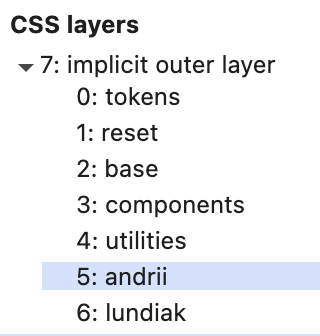
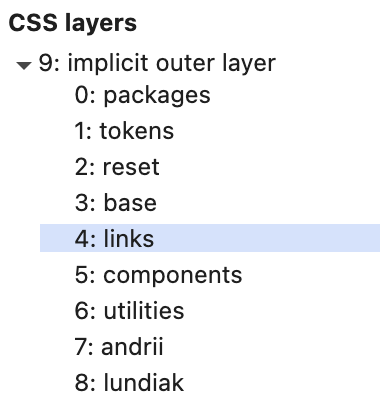
Fixed CSS layers

Changed region(s): [[0.0, 0.4762, 1.0, 1.0], [0.0, 0.0298, 0.875, 0.4464]]

diff --git a/src/index_w_layers.css b/src/index_w_layers.css
@@ -1,51 +1,10 @@
-@import 'bootstrap';
+/* LAYERS order, must be declared at the top of file */
+@layer packages, tokens, reset, base, links, components, utilities, andrii, lundiak;
+
 /* It works, injects CSS properly from node_modules */
 /* But if layers used it may depend on which level other CSS chunks included... */
 /* As experiment I will leave it here for some time */
-
-/* LAYERS order, must be declared at the top of file */
-@layer tokens, reset, base, components, utilities, andrii, lundiak;
-
-/* THAT was base code from Vite React boilerplate with small change by me */
-/*
-a {
-  font-weight: 500;
-  color: #646cff;
-  text-decoration: inherit;
-}
-a:hover {
-  color: #535bf2;
-}
-*/
-
-/* And I added this new CODE, which I intend to wrap by some layer */
-/* But it doesn't work properly - Bootstrap CSS then takes in action */
-/* TBD */
-a {
-  /* color: #1a0dab; */
-  text-decoration: none;
-}
-
-a[target='_blank']:visited {
-  color: #4f0491;
-}
-
-a[target='_blank']:hover {
-  color: #535bf2;
-  text-decoration: underline;
-}
-
-a[target='_blank']:focus-visible {
-  outline: 2px solid #ff9800;
-  outline-offset: 3px;
-  text-decoration: none;
-}
-
-a[target='_blank']:active {
-  color: #b20000;
-}
-/* ___ */
-/* NEW */
+@import 'bootstrap' layer(packages);
 
 /* LAYERS implementations */
 
@@ -66,13 +25,39 @@ a[target='_blank']:active {
   }
 }
 
-@layer reset {
+/* kinda OK when bootstrap imported in as Unlayered */
+/* kinda bad, when bootstrap is imported via layer */
+/* @layer reset {
   *,
   *::before,
   *::after {
     margin: 0;
     padding: 0;
     box-sizing: border-box;
+  }
+} */
+
+@layer base {
+  body {
+    display: flex;
+    align-items: center;
+    justify-content: center;
+  }
+
+  h1 {
+    font-size: 3.2em;
+    line-height: 1.1;
+  }
+
+  @media (prefers-color-scheme: light) {
+    :root {
+      color: #213547;
+      background-color: #ffffff;
+    }
+
+    a:hover {
+      color: #747bff;
+    }
   }
 }
 
@@ -105,27 +90,30 @@ a[target='_blank']:active {
   }
 }
 
-@layer base {
-  body {
-    display: flex;
-    align-items: center;
-    justify-content: center;
+@layer links {
+  /* This code may work not properly if Bootstrap CSS imported as a" via JS, b) Unlayered, c) under some layer */
+  /* TBD */
+  a {
+    text-decoration: none;
   }
 
-  h1 {
-    font-size: 3.2em;
-    line-height: 1.1;
+  a[target='_blank']:visited {
+    color: #4f0491;
   }
 
-  @media (prefers-color-scheme: light) {
-    :root {
-      color: #213547;
-      background-color: #ffffff;
-    }
+  a[target='_blank']:hover {
+    color: #535bf2;
+    text-decoration: underline;
+  }
 
-    a:hover {
-      color: #747bff;
-    }
+  a[target='_blank']:focus-visible {
+    outline: 2px solid #ff9800;
+    outline-offset: 3px;
+    text-decoration: none;
+  }
+
+  a[target='_blank']:active {
+    color: #b20000;
   }
 }
 

diff --git a/SETUP.md b/SETUP.md
@@ -20,6 +20,13 @@ Decides to rework base `index.css` from Vite + React boilerplate into using CSS 
 | `frameworks` | ❌ No             | ⚠ Sometimes        |
 | `packages`   | ❌ No             | ⚠ Rare             |
 
+Cascade Order (from lowest to highest priority):
+
+- Browser styles
+- Layered styles (via `@layer`)
+- Unlayered styles (`@import` or direct CSS)
+- Inline styles or JS-modified styles
+
 ![example in browser](./images/css-layers.png)
 
 # 2024
